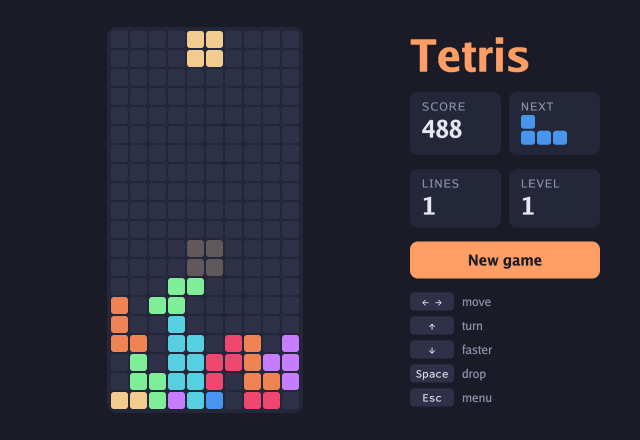
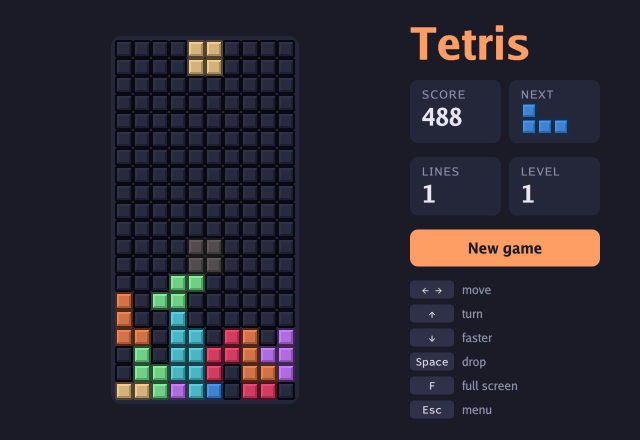
feat(games): Tetris in Kenney's Pixel Platformer Blocks (CC0)
Every cell, the empty ones, the ghost and the Next preview, is the pack's
marble block, embedded unchanged in games/tetris/art, tinted with the
piece's colour, at 18 points a cell. 2048's key list is one Arrows line.

Claude-Session: https://claude.ai/code/session_01VHNcRma4zqYcvCChgFz3tz

diff --git a/games/tetris/main.go b/games/tetris/main.go
@@ -25,7 +25,7 @@ import (
 	"github.com/merlindorin/ember/world"
 )
 
-const cell = 19
+const cell = 18
 
 // Held arrows move once, then again every repeat after delay.
 const delay, repeat = 0.17, 0.05
@@ -35,7 +35,7 @@ const delay, repeat = 0.17, 0.05
 const askAfter = 0.6
 
 // The board's size: the cells with a 4-point margin.
-const boardW, boardH = W*cell + 6, H*cell + 6
+const boardW, boardH = W*cell + 8, H*cell + 8
 
 // colorOf is a piece's colour, on the board and in the preview.
 func colorOf(kind int) color.Color {
@@ -83,7 +83,8 @@ type Play struct {
 // Well is the play area, a twod entity drawing the board every frame.
 type Well struct {
 	twod.Item
-	play *Play
+	play   *Play
+	blocks *twod.Texture
 }
 
 func newPlay(win *platform.Window, seed func() uint64, data *save.Data) *Play {
@@ -115,7 +116,7 @@ func newPlay(win *platform.Window, seed func() uint64, data *save.Data) *Play {
 	if data.Fullscreen {
 		win.SetFullscreen(true)
 	}
-	p.well = twod.Build(&Well{Item: twod.Base(), play: p}, "board", look.Place(boardW, boardH))
+	p.well = twod.Build(&Well{Item: twod.Base(), play: p, blocks: loadBlocks()}, "board", look.Place(boardW, boardH))
 	p.sparks = twod.NewParticles(nil, twod.Rate(0), twod.Velocity(40, 180), twod.Direction(-geom.Pi/2, geom.Pi),
 		twod.Gravity(geom.V2(0, 320)), twod.Lifetime(0.4, 0.9), twod.SizeOverLife(5, 0.5),
 		twod.ColorOverLife(color.Hex("#fff3d6"), color.Hex(look.Accent).Alpha(0)), twod.Blend(twod.Add),
@@ -245,15 +246,15 @@ func (w *Well) Draw(c *twod.Canvas) {
 		w.drawClear(c, p.clearing/clearTime)
 		return
 	}
-	drawBoard(c, &p.game.Board)
+	drawBoard(c, w.blocks, &p.game.Board)
 	if p.game.Over {
 		return
 	}
 	for _, at := range p.game.Ghost().Cells() {
-		square(c, at[0], at[1], 1, colorOf(p.game.Piece.Kind).Alpha(0.25))
+		square(c, w.blocks, at[0], at[1], 1, colorOf(p.game.Piece.Kind).Alpha(0.25))
 	}
 	for _, at := range p.game.Piece.Cells() {
-		square(c, at[0], at[1], 1, colorOf(p.game.Piece.Kind))
+		square(c, w.blocks, at[0], at[1], 1, colorOf(p.game.Piece.Kind))
 	}
 }
 
@@ -261,44 +262,45 @@ func (w *Well) Draw(c *twod.Canvas) {
 // shrinking away, k from 0 to 1.
 func (w *Well) drawClear(c *twod.Canvas, k float32) {
 	cleared := &w.play.game.Cleared
-	drawBoard(c, &cleared.Board)
+	drawBoard(c, w.blocks, &cleared.Board)
 	flash := color.Hex("#ffffff").Alpha(1 - ease.OutQuad(k))
 	for _, y := range cleared.Rows {
 		for x := range W {
-			square(c, x, y, 1, color.Hex(look.Cell))
-			square(c, x, y, 1-ease.InQuad(k), colorOf(cleared.Board[y][x]).Lerp(color.Hex("#ffffff"), 1-k))
-			square(c, x, y, 1, flash.Alpha(0.5*(1-k)))
+			square(c, w.blocks, x, y, 1, color.Hex(look.Cell))
+			square(c, w.blocks, x, y, 1-ease.InQuad(k), colorOf(cleared.Board[y][x]).Lerp(color.Hex("#ffffff"), 1-k))
+			square(c, w.blocks, x, y, 1, flash.Alpha(0.5*(1-k)))
 		}
 	}
 }
 
-func drawBoard(c *twod.Canvas, board *[H][W]int) {
+func drawBoard(c *twod.Canvas, blocks *twod.Texture, board *[H][W]int) {
 	for y, row := range board {
 		for x, kind := range row {
 			col := color.Hex(look.Cell)
 			if kind != 0 {
 				col = colorOf(kind)
 			}
-			square(c, x, y, 1, col)
+			square(c, blocks, x, y, 1, col)
 		}
 	}
 }
 
 func (p *Play) drawNext(c *twod.Canvas) {
 	for _, at := range spawn(p.game.Next).cells {
-		c.RoundRect(geom.Rect{X: float32(at[0] * 16), Y: float32(at[1] * 16), W: 14, H: 14}, 3, colorOf(p.game.Next))
+		r := geom.Rect{X: float32(at[0] * 16), Y: float32(at[1] * 16), W: 16, H: 16}
+		c.Image(r, p.well.blocks, blockUV, colorOf(p.game.Next))
 	}
 }
 
-// square draws a board cell at a scale about its centre; the board has a
-// 4-point margin.
-func square(c *twod.Canvas, x, y int, scale float32, col color.Color) {
+// square draws a board cell, Kenney's block tinted col, at a scale about its
+// centre; the board has a 4-point margin.
+func square(c *twod.Canvas, blocks *twod.Texture, x, y int, scale float32, col color.Color) {
 	if y < 0 || scale <= 0 {
 		return
 	}
-	size := (cell - 2) * scale
-	at := geom.V2(float32(4+x*cell)+(cell-2-size)/2, float32(4+y*cell)+(cell-2-size)/2)
-	c.RoundRect(geom.Rect{X: at.X, Y: at.Y, W: size, H: size}, 3*scale, col)
+	size := cell * scale
+	at := geom.V2(float32(4+x*cell)+(cell-size)/2, float32(4+y*cell)+(cell-size)/2)
+	c.Image(geom.Rect{X: at.X, Y: at.Y, W: size, H: size}, blocks, blockUV, col)
 }
 
 func main() {

diff --git a/games/2048/main.go b/games/2048/main.go
@@ -71,8 +71,7 @@ func newGame(win *platform.Window, seed func() uint64, data *save.Data) (*Game, 
 	g.hud.Body().Append(look.Side("2048",
 		look.Stats(scoreCard, bestCard),
 		look.NewGame(g.hud, g.restart),
-		look.Keys("← →", "slide sideways", "↑ ↓", "slide up and down", "N", "new game",
-			"F", "full screen", "Esc", "menu")), g.over)
+		look.Keys("Arrows", "slide", "N", "new game", "F", "full screen", "Esc", "menu")), g.over)
 	g.menu = look.NewMenu(g.hud, look.Hooks{NewGame: g.restart, Data: func() *save.Data { return g.data },
 		SoundChanged: func() {
 			g.player.Set(g.data.Music, g.data.Effects, !g.data.MusicOff)

diff --git a/games/tetris/art.go b/games/tetris/art.go
@@ -1,0 +1,23 @@
+package main
+
+import (
+	"embed"
+
+	"github.com/merlindorin/ember/geom"
+	"github.com/merlindorin/ember/twod"
+)
+
+//go:embed art/blocks.png
+var art embed.FS
+
+// The block the cells are drawn with: Kenney's marble tile at column 0, row
+// 1 of an 18-pixel sheet 9 tiles square, tinted per piece.
+var blockUV = geom.Rect{X: 0, Y: 1.0 / 9, W: 1.0 / 9, H: 1.0 / 9} //nolint:gochecknoglobals // a constant region
+
+func loadBlocks() *twod.Texture {
+	tex, err := twod.LoadTexture(art, "art/blocks.png", twod.Pixelated())
+	if err != nil {
+		panic(err) // an embedded file that always decodes
+	}
+	return tex
+}

diff --git a/CREDITS.md b/CREDITS.md
@@ -24,6 +24,7 @@ Each beside the files it covers:
 - [examples/internal/crypt/CREDITS.md](examples/internal/crypt/CREDITS.md): 0x72's 16x16 DungeonTileset II (CC0) and HydroGene's music (CC0); `tools/tileset/testdata` holds a copy of the same tilesets.
 - [examples/53-music-and-positional/CREDITS.md](examples/53-music-and-positional/CREDITS.md): four Freesound recordings (CC0), cut into loops.
 - [examples/45-emoji/CREDITS.md](examples/45-emoji/CREDITS.md): Twemoji pictures (CC-BY 4.0) and Noto Emoji (SIL OFL 1.1); [ui/internal/pages/kit-14b-shortcodes/CREDITS.md](ui/internal/pages/kit-14b-shortcodes/CREDITS.md) for four of the same pictures.
+- [games/tetris/art/CREDITS.md](games/tetris/art/CREDITS.md): a block of Kenney's Pixel Platformer Blocks (CC0).
 - [games/flap/art/CREDITS.md](games/flap/art/CREDITS.md): Megacrash's Flappy Bird Assets v1.6 (CC0): the bird, pipes, ground, sky and clouds.
 - [examples/internal/lucide/CREDITS.md](examples/internal/lucide/CREDITS.md): the Lucide icon font (ISC).
 - Silkscreen (SIL OFL 1.1): its `Silkscreen-OFL.txt` beside each copy.

diff --git a/games/tetris/art/CREDITS.md b/games/tetris/art/CREDITS.md
@@ -1,0 +1,3 @@
+# Credits
+
+- `blocks.png`: `Tilemap/marble_packed.png` from Kenney's [Pixel Platformer Blocks](https://kenney.nl/assets/pixel-platformer-blocks) 1.0 (27 November 2021), under [CC0 1.0](https://creativecommons.org/publicdomain/zero/1.0/), renamed, unchanged; the game draws one of its 18 by 18 tiles, tinted with each piece's colour.
